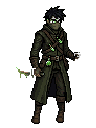
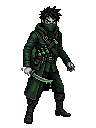
New portraits for the Inkwizytorka (213 A) and the poisoner (214 A)
The Inkwizytorka raises an ornate golden cross instead of her censer, the
poisoner holds one dagger point down along his leg. Both get skin masks
for every tone (face and hands; the cross stays gold) and their busts
centre on the new faces. The walks' prompts follow the new portraits, and
the book try for 213 leaves art/prompts.json.

Claude-Session: https://claude.ai/code/session_01EFZUMqpHps3KDRogHBzjf3

Changed region(s): [[0.1875, 0.0312, 0.8438, 0.9688]]

diff --git a/src/client/art.js b/src/client/art.js
@@ -58,7 +58,7 @@ export const SPRITES = {
       'archer-female': 49, 'archer-male': 52, 'cleric-male': 49, 'shadow-male': 51, 'warrior-male': 50,
       'guardian-female': 50, 'sniper-female': 43, 'sniper-male': 47, 'ice-lord-female': 50, 'priest-female': 50, 'priest-male': 50, 'assassin-female': 54, 'assassin-male': 52,
       'barbarian-female': 55, 'barbarian-male': 57, 'gladiator-female': 51, 'gladiator-male': 51, 'storm-archer-female': 46, 'storm-archer-male': 52, 'hunter-female': 51, 'hunter-male': 56,
-      'elementalist-female': 53, 'arcanist-female': 47, 'arcanist-male': 52, 'healer-female': 46, 'healer-male': 45, 'inquisitor-female': 45, 'poisoner-female': 52, 'poisoner-male': 53,
+      'elementalist-female': 53, 'arcanist-female': 47, 'arcanist-male': 52, 'healer-female': 46, 'healer-male': 45, 'inquisitor-female': 44, 'poisoner-female': 52, 'poisoner-male': 49,
       'night-dancer-female': 50, 'night-dancer-male': 47,
     },
     toned: ['warrior-female', 'warrior-male', 'archer-female', 'archer-male', 'mage-female', 'mage-male', 'cleric-female', 'cleric-male', 'shadow-female', 'shadow-male'],

diff --git a/tools/evolution-tones.py b/tools/evolution-tones.py
@@ -16,7 +16,7 @@
 # Each skin colour keeps its place between the darkest and the lightest skin
 # colour of the portrait, on the tone's ramp from shadow to light.
 #
-# Usage: python3 tools/evolution-tones.py [--mask out-dir]
+# Usage: python3 tools/evolution-tones.py [--ids a,b] [--mask out-dir]
 import colorsys, json, os, sys
 from PIL import Image, ImageDraw
 
@@ -77,7 +77,10 @@ def main():
     masks = json.load(open(os.path.join(ROOT, 'tools', 'evolution-tones.json'), encoding='utf-8'))
     tones = [t for t in json.load(open(os.path.join(ROOT, 'data', 'skins.json'), encoding='utf-8'))['skins'] if t.get('ramp')]
     mask_dir = sys.argv[sys.argv.index('--mask') + 1] if '--mask' in sys.argv else None
+    only = set(sys.argv[sys.argv.index('--ids') + 1].split(',')) if '--ids' in sys.argv else None
     for name, cfg in masks.items():
+        if only and name not in only:
+            continue
         im = Image.open(os.path.join(PORTRAITS, name + '.png')).convert('RGBA')
         skin = skin_of(im, cfg)
         colours = {im.getpixel(p)[:3] for p in skin}

diff --git a/DECISIONS.md b/DECISIONS.md
@@ -3031,6 +3031,8 @@ Autor: „chciałbym dorobić w miedzyczasie opcje wyswietlania ile w grze jest 
     - **Chód może różnić się od portretu.** Autor: „Ej ale animacja może przecież różnić się od portretu!! To wrzuć portret Elementalisty i Elementalistki z tym ogniem, a animacje zostaw nowe”. Portrety obu Elementalistów wracają z ogniem, we wszystkich odcieniach skóry, tak jak przed 208. Ich chody bez ognia zostają.
     - **Truciciel: wersja D.** Autor: „Wybrałem wersję D Truciciela, ale z tego co widziałem to portret Truciciela nie wygląda dobrze”. W grze jest chód D, z pustymi rękami, i jego klatka startowa `poisoner-male-empty.png` w `art/walks.json`. Portret zostaje do decyzji autora (214).
     - **Inkwizytorka bez kadzielnicy w chodzie.** Skoro chód może różnić się od portretu, jej klatka startowa traci kadzielnicę, dym i łańcuchy, a lewa dłoń zostaje pusta. PixelLab animuje ją w 3 wersjach, niezależnie od wyboru portretu (213).
+    - **Nowe portrety: „213 A 214 A”.** Inkwizytorka ma portret z Retro Diffusion ze zdobionym złotym krzyżem uniesionym w lewej dłoni i buzdyganem w prawej, bez kadzielnicy. Truciciel ma portret z jednym sztyletem ostrzem w dół wzdłuż nogi i pustą lewą dłonią. Oba portrety mają odcienie skóry z nowych masek (`tools/evolution-tones.json`: twarz i obie dłonie, krzyż zostaje złoty), a popiersia centrują się na twarzy (`faces`).
+    - Autor: „Po zrobieniu chodu 213 A i 214 A robisz wdrożenie”. Klatki startowe chodów powstają z nowych portretów, PixelLab robi po 3 wersje, a najlepszą, bez latających przedmiotów i drugiego sztyletu, wybieram sam. Potem idzie wdrożenie 0.0.64.
         - Inkwizytorka: „Kadzidło lata jak szalone w obydwu wersjach zmienia pozycje, nie jest trzymane, jest proboem chyba z klatką startową zatem albo i portretem z którego można to kadzidlo wywalić ewentualnie i dać złoty krzyż albo coś”. Kadzielnica wisi na łańcuchu, więc w każdej klatce PixelLab ustawia ją inaczej. Portret dostaje do wyboru (211) wersję bez kadzielnicy albo ze złotym krzyżem trzymanym pionowo w lewej pięści. Klatka startowa i chód powstają po wyborze autora.
     - **Nowe chody w grze (na wersji testowej).** 37 wybranych chodów zastępuje dawne. Elementalista i Truciciel mają do wyboru autora pierwszą z trzech nowych wersji, a Inkwizytorka do czasu poprawki swoją dawną wersję A. Chód to 8 klatek po 128 × 128 w tempie 8 klatek na sekundę, czyli pełny krok w sekundę (205), w skali 1:1: postać ma około 115 pikseli wysokości, dawna miała 72 (autor: „Postac moze byc wieksza, mniejsza, zobaczymy”). Stopy stoją na ścieżce tam, gdzie stały dawne. Ścieżka przesuwa się o 94 piksele na sekundę, tyle co stopa na ziemi w szkielecie (47 pikseli w pół sekundy), więc stopy nie ślizgają się. Tło przesuwa się o 30 pikseli na sekundę (dotąd ścieżka 60, a tło 20). Postać Systemu, czyli wygląd bez własnego chodu, zostaje bez zmian (`walk.walker` i `walk.figure` w `data/animations.json`).
     - **Odcienie skóry nowych chodów** robi `tools/walk-tones.py`. Skórę portretu zna z jego szarego pliku, bo maski portretów były sprawdzane ręcznie. Kolor chodu jest skórą, gdy najbliższy mu kolor portretu jest w większości skórą, a cienie skóry, np. dłoni w cieniu, dochodzą przy niej same. Poprawki dla 13 postaci są w `tools/walk-tones.json`: brązowy hełm i nagolenniki gladiatorów, latająca księga Arkanistki, kryształy na kosturach Elementalistów, ostrza Nocnej Tancerki, sztylety Trucicieli, szaty i tarcza Kapłanów, lamówka Lodowego Władcy, dłoń Łuczniczki i oczy Zabójczyni. Za ramki służą miejsca szkieletu (głowa, dłonie, ramiona), bo PixelLab trzyma stawy tam, gdzie ma je szkielet. Każda postać jest sprawdzona we wszystkich 8 klatkach w odcieniu szarym i ciemnym. Dawne narzędzia odcieni chodów (`walker-tones.py`, `evolution-walker-tones.py`) są usunięte. Chody zapisują się jako PNG z własną paletą, piksel w piksel takie same: 320 plików zajmuje 4,3 MB zamiast 13 MB, a gra pobiera tylko jeden z nich, około 13 KB.
